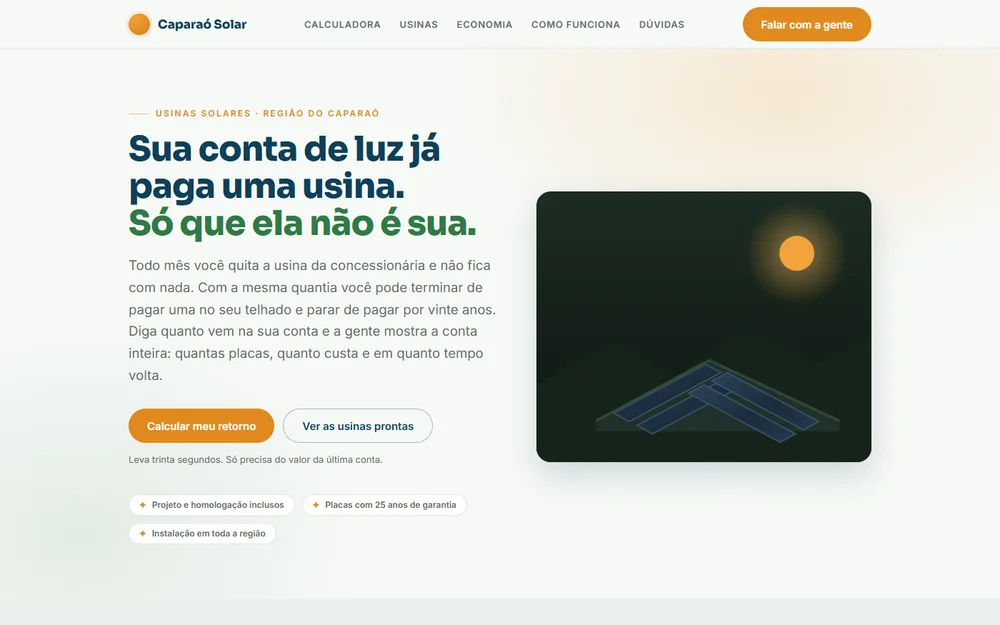
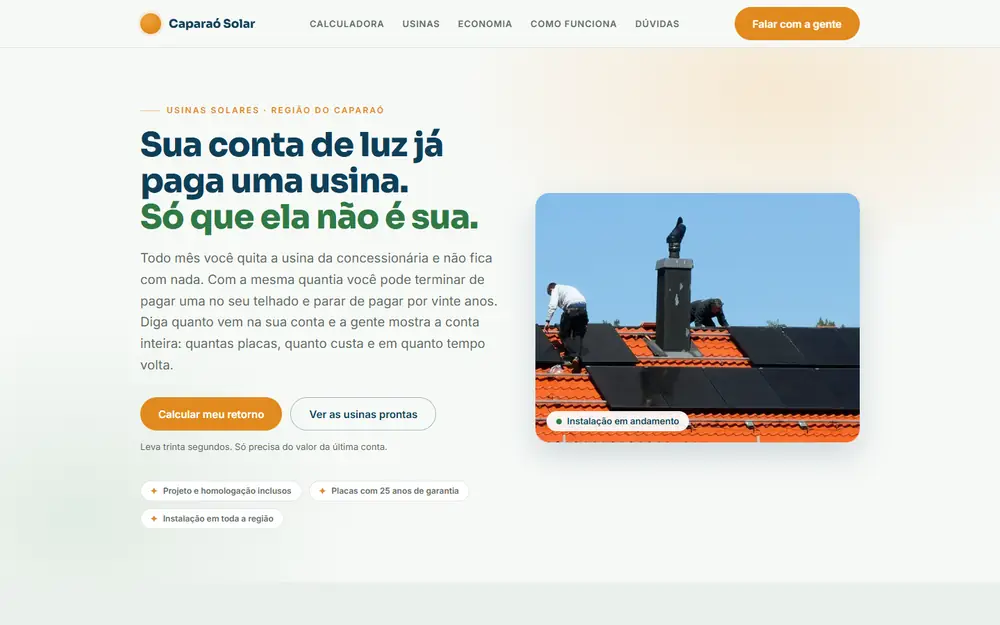
Caparaó Solar: fotos no hero, nos quatro passos e no fechamento
Fotos livres do Wikimedia Commons, recortadas, com autor e licença no
rodapé. A ilustração em SVG do hero sai. Capa da vitrine refeita.

diff --git a/solar/demos/caparao-solar/index.html b/solar/demos/caparao-solar/index.html
@@ -129,7 +129,10 @@
 
   /* telhado desenhado: a demo não tem foto e um SVG leve diz o mesmo
      sem custar download nenhum */
-  .telhado{width:100%;height:auto;border-radius:20px;box-shadow:0 18px 44px rgba(15,63,88,.18)}
+  .capa-foto{position:relative;margin:0;border-radius:20px;overflow:hidden;box-shadow:0 18px 44px rgba(15,63,88,.18);aspect-ratio:1040/800;background:var(--fundo-2)}
+  .capa-foto img{width:100%;height:100%;object-fit:cover}
+  .capa-foto figcaption{position:absolute;left:16px;bottom:16px;display:flex;align-items:center;gap:8px;padding:8px 14px;border-radius:999px;background:rgba(255,255,255,.92);font:600 13px/1 var(--corpo);color:var(--azul)}
+  .capa-foto .ponto{width:8px;height:8px;border-radius:50%;background:var(--folha)}
 
   /* ---------- calculadora ---------- */
   #calculadora{background:var(--fundo-2)}
@@ -214,7 +217,8 @@
 
   /* ---------- passos ---------- */
   .passos{counter-reset:p;display:grid;gap:18px;grid-template-columns:repeat(auto-fit,minmax(230px,1fr));margin-top:42px}
-  .passo{background:var(--card);border:1px solid var(--linha);border-radius:16px;padding:24px 22px;counter-increment:p}
+  .passo{background:var(--card);border:1px solid var(--linha);border-radius:16px;padding:24px 22px;counter-increment:p;overflow:hidden}
+  .passo-foto{display:block;width:calc(100% + 44px);max-width:none;height:auto;aspect-ratio:16/10;object-fit:cover;margin:-24px -22px 18px}
   .passo::before{
     content:counter(p,decimal-leading-zero);display:block;margin-bottom:12px;
     font:800 13px/1 var(--display);color:var(--sol);letter-spacing:.1em;
@@ -238,7 +242,7 @@
   .faq .resp{padding:0 40px 20px 0;margin:0;font:400 15px/1.7 var(--corpo);color:var(--musgo)}
 
   /* ---------- fechamento e rodapé ---------- */
-  .fechar{background:linear-gradient(160deg,#0F3F58,#0B2F42);text-align:center;color:#EAF2F5}
+  .fechar{background:linear-gradient(160deg,rgba(15,63,88,.92),rgba(11,47,66,.95)),url(fotos/placas-fundo.webp) center/cover no-repeat,#0F3F58;text-align:center;color:#EAF2F5}
   .fechar h2{color:#FFF}
   .fechar .apoio{color:#BBD2DC}
   .fechar .botao.vazado{color:#FFF;border-color:rgba(255,255,255,.35)}
@@ -247,6 +251,8 @@
   .fechar .apoio{margin-left:auto;margin-right:auto;text-align:center}
   .fechar .capa-ctas{justify-content:center}
   footer{border-top:1px solid var(--linha);padding:40px 0;font:400 13px/1.7 var(--corpo);color:var(--musgo)}
+  footer .creditos{flex-basis:100%;font-size:12px}
+  footer .creditos a{color:inherit}
   .pe{display:flex;flex-wrap:wrap;gap:18px;align-items:center;justify-content:space-between}
 
   /* barra fixa no celular: mesma regra da home, 44 px de toque e sem
@@ -297,29 +303,10 @@
       </div>
     </div>
 
-    <svg class="telhado" viewBox="0 0 520 420" role="img" aria-label="Telhado com placas solares sob o sol, com a serra do Caparaó ao fundo">
-      <defs>
-        <linearGradient id="ceu" x1="0" y1="0" x2="0" y2="1">
-          <stop offset="0%" stop-color="#1D2C22"/><stop offset="100%" stop-color="#0E1511"/>
-        </linearGradient>
-        <linearGradient id="placa" x1="0" y1="0" x2="1" y2="1">
-          <stop offset="0%" stop-color="#2A4258"/><stop offset="55%" stop-color="#1B2C3C"/><stop offset="100%" stop-color="#25394C"/>
-        </linearGradient>
-        <radialGradient id="brilho"><stop offset="0%" stop-color="#FFC873"/><stop offset="100%" stop-color="#F2A33C" stop-opacity="0"/></radialGradient>
-      </defs>
-      <rect width="520" height="420" fill="url(#ceu)" rx="20"/>
-      <circle cx="404" cy="96" r="80" fill="url(#brilho)" opacity=".55"/>
-      <circle cx="404" cy="96" r="27" fill="#F2A33C"/>
-      <path d="M0 300 L120 236 L214 288 L322 214 L430 268 L520 228 L520 420 L0 420 Z" fill="#16241B"/>
-      <path d="M92 356 L268 262 L470 356 L470 372 L92 372 Z" fill="#20302A"/>
-      <g>
-        <path d="M120 344 L262 268 L286 281 L144 357 Z" fill="url(#placa)" stroke="#3C5468" stroke-width="2"/>
-        <path d="M156 363 L298 287 L322 300 L180 376 Z" fill="url(#placa)" stroke="#3C5468" stroke-width="2"/>
-        <path d="M296 281 L438 357 L414 370 L272 294 Z" fill="url(#placa)" stroke="#3C5468" stroke-width="2"/>
-        <path d="M260 300 L402 376 L378 389 L236 313 Z" fill="url(#placa)" stroke="#3C5468" stroke-width="2"/>
-      </g>
-      <path d="M92 356 L268 262 L470 356" fill="none" stroke="#34473C" stroke-width="4" stroke-linejoin="round"/>
-    </svg>
+    <figure class="capa-foto">
+      <img src="fotos/telhado-1040.webp" srcset="fotos/telhado-560.webp 560w, fotos/telhado-1040.webp 1040w" sizes="(max-width: 920px) 90vw, 520px" width="1040" height="800" fetchpriority="high" alt="Equipe instalando placas solares num telhado de telha cerâmica">
+      <figcaption><span class="ponto" aria-hidden="true"></span>Instalação em andamento</figcaption>
+    </figure>
   </div>
 </section>
 
@@ -490,18 +477,22 @@
 
     <div class="passos">
       <div class="passo">
+        <img class="passo-foto" src="fotos/passo-1.webp" width="480" height="300" loading="lazy" decoding="async" alt="Técnico de capacete conferindo a estrutura no telhado">
         <h3>Visita e projeto</h3>
         <p>A gente vai até o local, mede o telhado, confere o padrão de entrada e calcula a usina com o seu consumo real dos últimos doze meses.</p>
       </div>
       <div class="passo">
+        <img class="passo-foto" src="fotos/passo-2.webp" width="480" height="300" loading="lazy" decoding="async" alt="Placas solares chegando para a instalação">
         <h3>Orçamento fechado</h3>
         <p>Valor único, com tudo dentro: placas, inversor, estrutura, cabeamento, mão de obra e a papelada na concessionária. Sem custo que aparece depois.</p>
       </div>
       <div class="passo">
+        <img class="passo-foto" src="fotos/passo-3.webp" width="480" height="300" loading="lazy" decoding="async" alt="Instalador de capacete fixando as placas">
         <h3>Instalação</h3>
         <p>De um a três dias no telhado, conforme o tamanho. A casa fica sem energia só no momento da conexão, que leva alguns minutos.</p>
       </div>
       <div class="passo">
+        <img class="passo-foto" src="fotos/passo-4.webp" width="480" height="300" loading="lazy" decoding="async" alt="Placas instaladas, prontas para gerar">
         <h3>Homologação e monitoramento</h3>
         <p>A gente entra com o pedido na concessionária e acompanha até a troca do medidor. Depois você vê a geração pelo celular, dia a dia.</p>
       </div>
@@ -558,6 +549,7 @@
   <div class="env pe">
     <a class="marca" href="#topo"><span class="marca-sol" aria-hidden="true"></span>Caparaó Solar</a>
     <span>Energia solar para casa, sítio e comércio na região do Caparaó.</span>
+    <span class="creditos">Fotos via Wikimedia Commons, recortadas: <a href="https://commons.wikimedia.org/wiki/File:Three_men_installing_solar_panels_on_a_house.jpg" target="_blank" rel="noopener">W.carter (CC0)</a>, <a href="https://commons.wikimedia.org/wiki/File:Solar_installation_technician_on_rooftop_%285392894792%29.jpg" target="_blank" rel="noopener">CoCreatr (CC BY-SA 2.0)</a>, <a href="https://commons.wikimedia.org/wiki/File:Bringing_out_the_solar_panels_%283049030697%29.jpg" target="_blank" rel="noopener">Oregon Department of Transportation (CC BY 2.0)</a>, <a href="https://commons.wikimedia.org/wiki/File:Installing_solar_panels_%283077176261%29.jpg" target="_blank" rel="noopener">Oregon Department of Transportation (CC BY 2.0)</a> e <a href="https://commons.wikimedia.org/wiki/File:Solar_panels_%286836811485%29.jpg" target="_blank" rel="noopener">Oregon Department of Transportation (CC BY 2.0)</a>.</span>
   </div>
 </footer>
 
